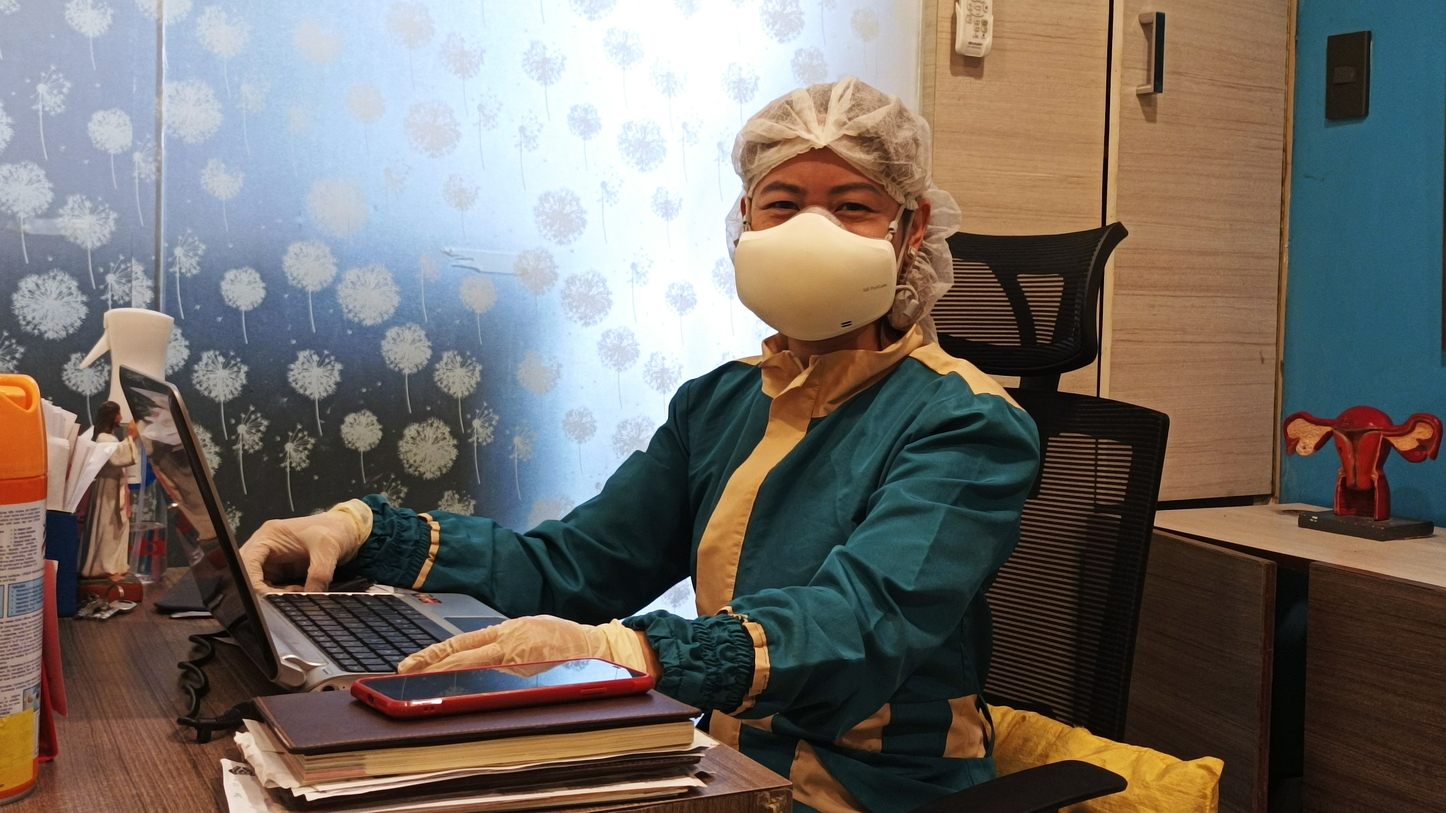
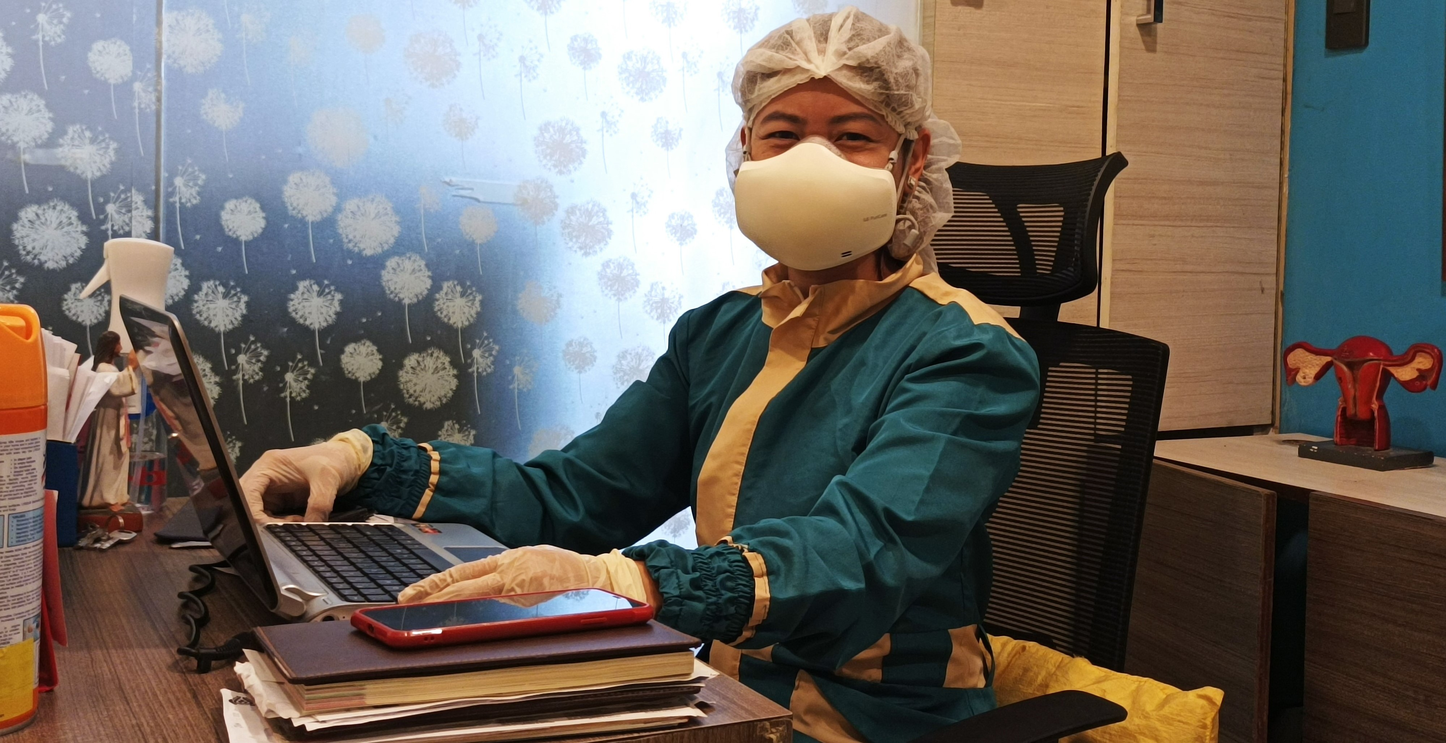
au

diff --git a/assets/css/about.css b/assets/css/about.css
@@ -6,15 +6,15 @@
 	background-size: cover;
 
 } */
-/* .panel img{
-	height: 70vh;
+.aboutus img{
+	height: 88vh;
 	background-size: cover;
 	width: 74%;
 	min-height: 35vw;
 	color: #fff;
     font-size: 1.5rem;
     font-family: 'lucida sans';
-} */
+}
 /* .container .aboutus{
 	width: 85%;
 	display: block;
@@ -28,18 +28,14 @@
 	width: 40%;
 	height: 270px;
 	padding: 20px 30px;
-  margin-left: -7%;
-  margin-top: -42%;
+  margin-left: 1%;
+  margin-top: -44%;
   color: white;
 	background-color: rgba(0,0,0,0.7);
   position: absolute;
 
 }
-/* .content-about .title{
-	font-size: small;
-	text-transform: uppercase;
-} */
-.content-about .title h1{
+.content-about .title{
     font-size: 1.5rem;
     text-transform: uppercase;
 }
@@ -73,7 +69,7 @@
 } */
 .map{
   width: 70%;
-  margin-top: -6%;
+  margin-top: 1%;
   background: #f1f1f1;
   border-radius: 6px;
   padding: 0px 53px 0px 46px;
@@ -118,6 +114,25 @@
   font-size: 16px;
   font-weight: 500;
 }
+/* .iframe-container {
+  position: relative;
+  width: 100%;
+  padding-bottom: 56.25%;
+  Ratio 16:9 ( 100%/16*9 = 56.25% )
+}
+
+.iframe-container>* {
+  display: block;
+  position: absolute;
+  top: 0;
+  right: 0;
+  bottom: 0;
+  left: 0;
+  margin: 0;
+  padding: 0;
+  height: 100%;
+  width: 100%;
+} */
 
 
 

diff --git a/about.php b/about.php
@@ -26,13 +26,11 @@ if (!empty($_SESSION)) {
 
     <?php include('./includes/navbar.php'); ?>
 
-    <div class="container">
+    <div class="container-fluid p-0">
         <div class="aboutus">
             <img src="image/au.jpg" class="d-block w-100" alt="...">
             <div class="content-about">
-                <div class="title">
-                    <h1> About Us</h1>
-                </div>
+                <div class="title">About Us</div>
                 <div class="about">
                     <p>Women's bodies are intricate and stunning, so when a problem emerges, you
                         want a professional to identify it and provide a solution. Once the issue
@@ -72,10 +70,11 @@ if (!empty($_SESSION)) {
             </div>
             <div class="map-visit">
                 <div class="visit-loc">Visit Us Here:</div>
-                <p><iframe
+                <div class="iframe-container">
+                    <iframe
                         src="https://www.google.com/maps/embed?pb=!1m18!1m12!1m3!1d3869.8838817287487!2d121.14102701449355!3d14.084031293303104!2m3!1f0!2f0!3f0!3m2!1i1024!2i768!4f13.1!3m3!1m2!1s0x33bd6f667d548e0d%3A0x8c83da36f918f390!2sLj%20Cura%20Ob-Gyn%20Ultrasound%20Clinic!5e0!3m2!1sen!2sph!4v1662817446762!5m2!1sen!2sph"
-                        width="600" height="300" style="border:0;" allowfullscreen="" loading="lazy"
-                        referrerpolicy="no-referrer-when-downgrade"></iframe></p>
+                        width="600" height="300" loading="lazy" referrerpolicy="no-referrer-when-downgrade"></iframe>
+                </div>
             </div>
         </div>
     </div>
